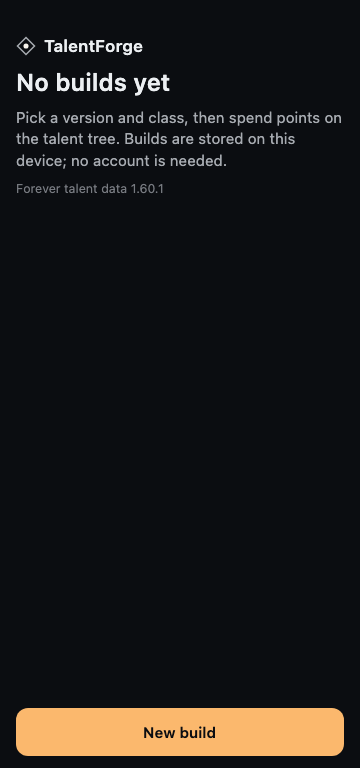
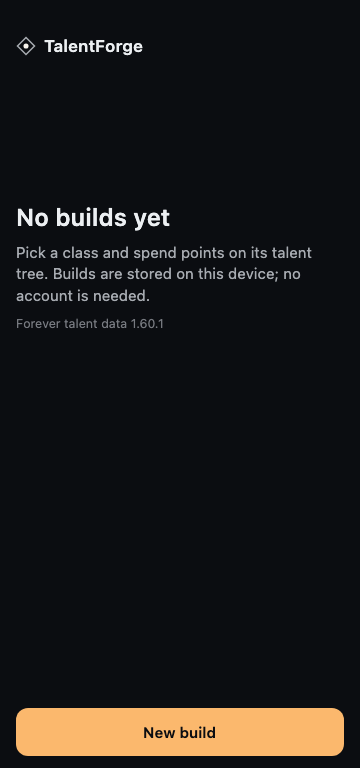
docs(mobile): PR #22 review-fix evidence and architecture notes
Refreshed M5.UI.1 screenshots (the realigned empty state and the
responsive All Builds rows change the populated shots) plus the five
review additions: All Builds at 200% font scale on 360x800 and
320x568 with a long name and two-digit points, and the empty state
at 320x568 / 130% / 200%. Architecture doc records the responsive
row rule, the empty-state alignment and the copy correction, with
the review verification run.

Changed region(s): [[0.0306, 0.0938, 0.8861, 0.4375], [0.9167, 0.125, 0.9472, 0.1562]]

diff --git a/docs/mobile-architecture.md b/docs/mobile-architecture.md
@@ -785,20 +785,23 @@ the asset spec uses for its accent spinner; hue 68 stays distinct from
 editor's token set is deliberately untouched.
 
 **Home (B+).** The empty state is typography only: the brand header, the
-`No builds yet` heading, one workflow sentence, the real bundled data version
-line — and a single PRIMARY pinned `New build` action; no illustration, no
-decorative tree fragment, no fake builds. The populated state keeps the M5.1
-hierarchy (Continue → Recent 3/4 → All builds · N) in B+ clothing: the
-Continue card carries the 44 dp artwork tile, title, `class · version ·
-recency` metadata, the engine-computed `spent / budget` beside a simple 4 dp
-progress bar (amber fill on the interactive track), and the amber
-`Continue editing` action; RECENT rows carry the 36 dp tile. All Builds is
-reachable at EVERY library size — with exactly one build (no RECENT section)
-the `All builds 1` link renders as its own row after the Continue card, a
-fix for the M5.1 behaviour where the link existed only inside the RECENT
-header. The pinned `New build` becomes a neutral secondary once builds exist.
-A failed library load stays the recoverable Retry state — never a faked empty
-Home.
+`No builds yet` heading (aligned in the upper-middle of the usable content,
+≈16 % of the screen height below the header — PR #22 review), one workflow
+sentence ("Pick a class and spend points on its talent tree…" — the class is
+the actual New Build choice; no misleading version wording), the real
+bundled data version line — and a single PRIMARY pinned `New build` action;
+no illustration, no decorative tree fragment, no fake builds. The populated
+state keeps the M5.1 hierarchy (Continue → Recent 3/4 → All builds · N) in
+B+ clothing: the Continue card carries the 44 dp artwork tile, title,
+`class · version · recency` metadata, the engine-computed `spent / budget`
+beside a simple 4 dp progress bar (amber fill on the interactive track), and
+the amber `Continue editing` action; RECENT rows carry the 36 dp tile. All
+Builds is reachable at EVERY library size — with exactly one build (no
+RECENT section) the `All builds 1` link renders as its own row after the
+Continue card, a fix for the M5.1 behaviour where the link existed only
+inside the RECENT header. The pinned `New build` becomes a neutral
+secondary once builds exist. A failed library load stays the recoverable
+Retry state — never a faked empty Home.
 
 **Display-only build names.** `BuildCardModel.title` now shows the descriptive
 `<Class> build` fallback (`Mage build`) for a persisted `name == null`, using
@@ -812,13 +815,28 @@ build) is unchanged repository semantics.
 
 **All Builds (B+).** Same list, count, order and management as M5.2a; the row
 mark is the 36 dp artwork tile and the empty-state action label matches
-Home's `New build`.
+Home's `New build`. The row is RESPONSIVE (PR #22 review): its fixed-width
+elements (artwork tile, mono points column, 48 dp `⋯` button) would crowd a
+long build name into unreadability at large font scales, so the row measures
+the widest points label at the current font scale and, when the title column
+would fall below ~112 dp, folds the points into the meta line — the artwork,
+the points FACT and the 48 dp actions target are always preserved
+(`AllBuildsRowLayoutUiTest` pins both arrangements and the button width).
 
-**Tests added/updated:** `HomeRedesignUiTest`, `ClassArtworkTest`
+**Tests added/updated:** `HomeRedesignUiTest`, `ClassArtworkTest`,
+`AllBuildsRowLayoutUiTest` (the responsive row of the PR #22 review)
 (`composeApp/desktopTest`), the display-name cases in `BuildCardMetadataTest`,
 and the M5.1/M5.2a suites' expectations (button label, empty-state heading,
 fallback titles). Opt-in screenshot evidence:
 `M5Ui1ScreenshotTest` (`-Dtalentforge.m5ui1.screenshots=<dir>`).
+
+> **PR #22 review verification.** `:shared:jvmTest` (244 tests),
+> `:composeApp:desktopTest` (497, of which the opt-in screenshot tests are
+> skipped), `:composeApp:assembleDebug`, both iOS debug framework links and
+> the `iosApp` simulator `xcodebuild` — all green. Review evidence in
+> `docs/screenshots/m5ui1/`: the All Builds row at 200 % font scale on
+> 360×800 and 320×568 (long name, two-digit points, folded meta line), and
+> the realigned empty state at 320×568 / 130 % / 200 %.
 
 ## Version stack (all stable)
 
